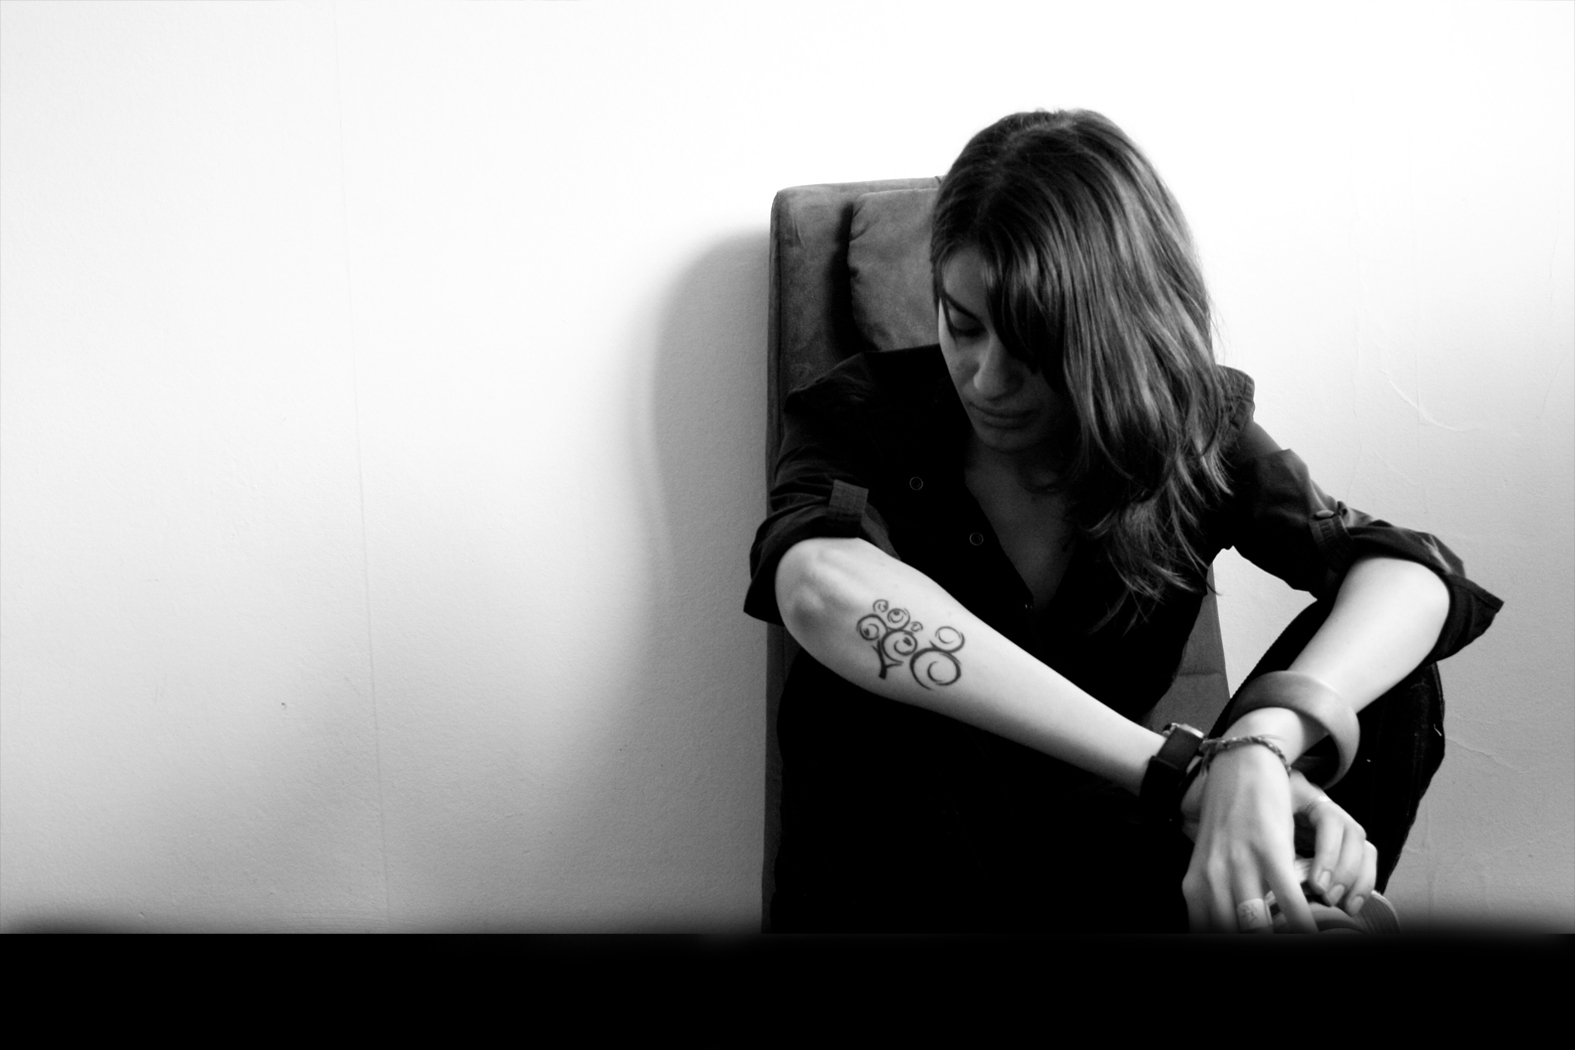
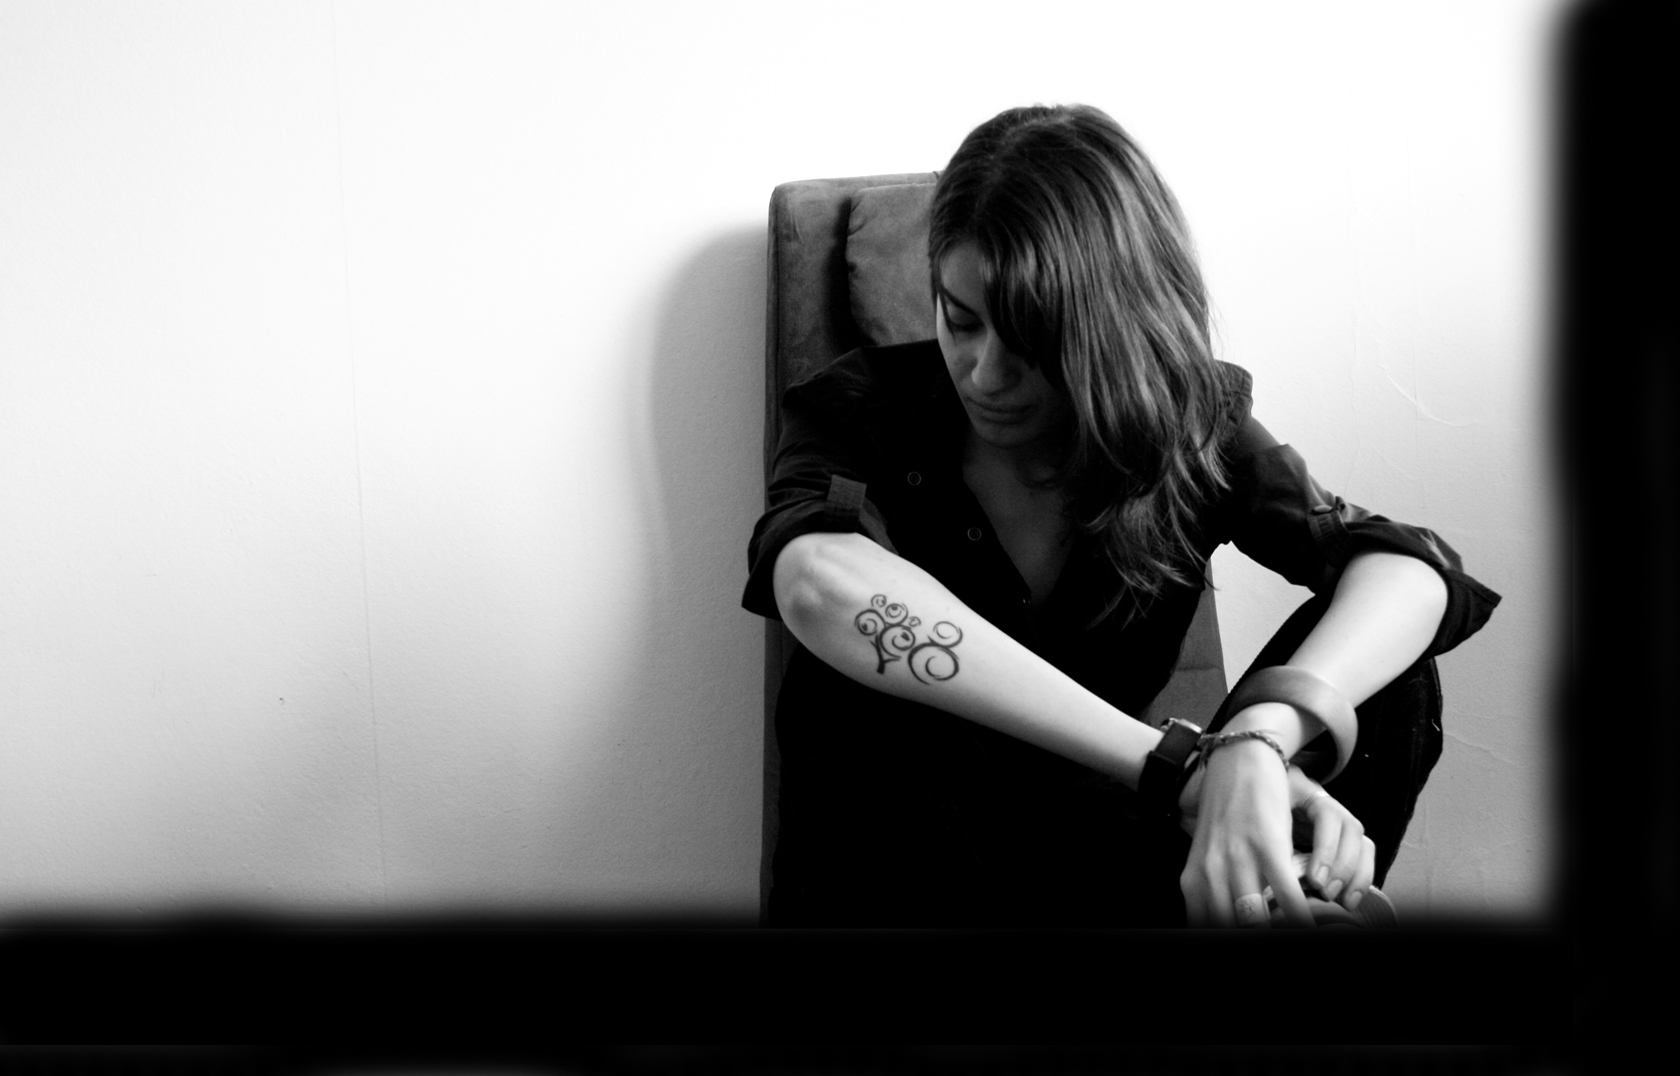
add links and redesign backround

diff --git a/index.html b/index.html
@@ -2,7 +2,7 @@
 <html>
 <head>
 	<meta http-equiv="Content-Type" content="text/html; charset=UTF-8"/>
-	<link rel="stylesheet" type="text/css" href="css/main.css" />
+	<link rel="stylesheet" type="text/css" href="css/main.css?2" />
 </head>
 <body>
 <div id="content">
@@ -11,6 +11,12 @@
 	<br>By all means.</br> </p>
 	<p><a href="http://tumblr.treeight.com/">Come and see</a></p>
 	<p>Пиши ми на yana в treeight.com</p>
+	<p><a href="http://facebook.com/yanah"><img src="images/fb.jpg" alt="Facebook Icon" title="My profile at Facebook" /></a>
+	<a href="http://www.last.fm/user/yanah"><img src="images/lastfm.jpg" alt="Last.fm Icon" title="My profile at Last.fm" /></a>
+	<a href="https://plus.google.com/u/0/105663832755452643732/about"><img src="images/plus.jpg" alt="Google Plus Icon" title="My profile at Google +" /></a>
+	<a href="https://tumblr.treeight.com"><img src="images/tumblr.jpg" alt="Tumblr Icon" title="My profile at Tumblr" /></a>
+	<a href="https://gallerate.com/yanah"><img src="images/gallerate.jpg" alt="Gallerate Icon" title="My profile at Gallerate" /></a>
+	</p>
 </div>
 </body>
 </html>
